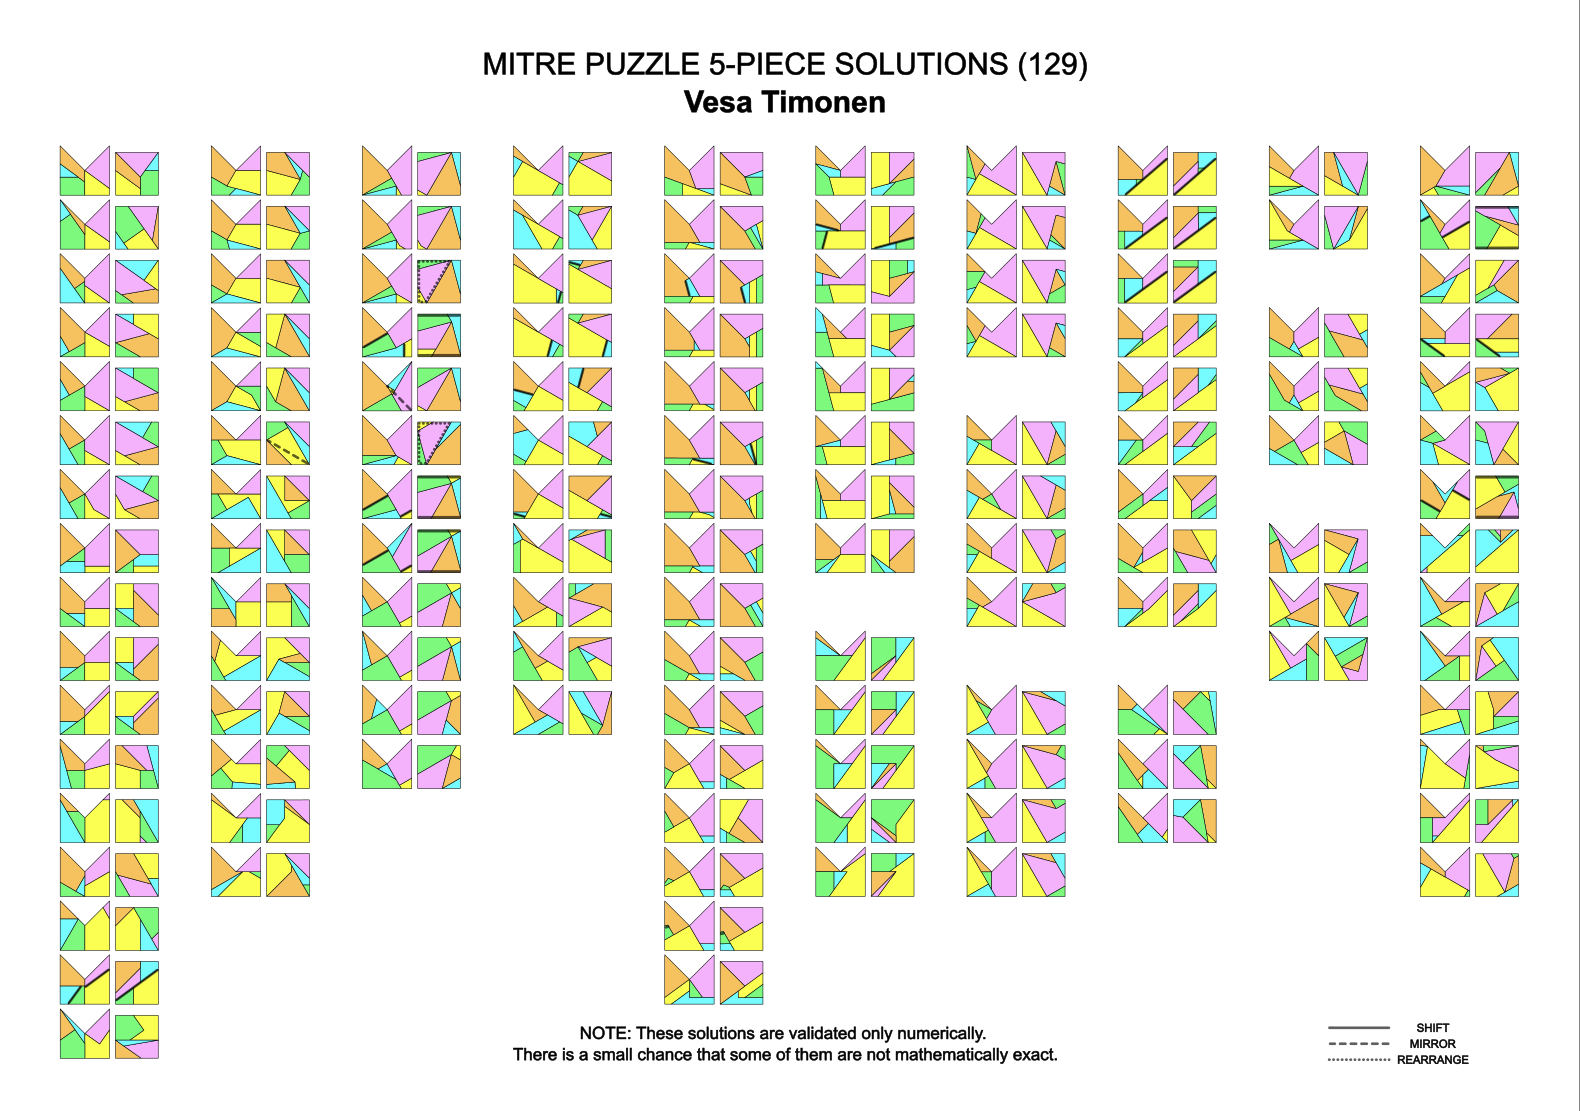
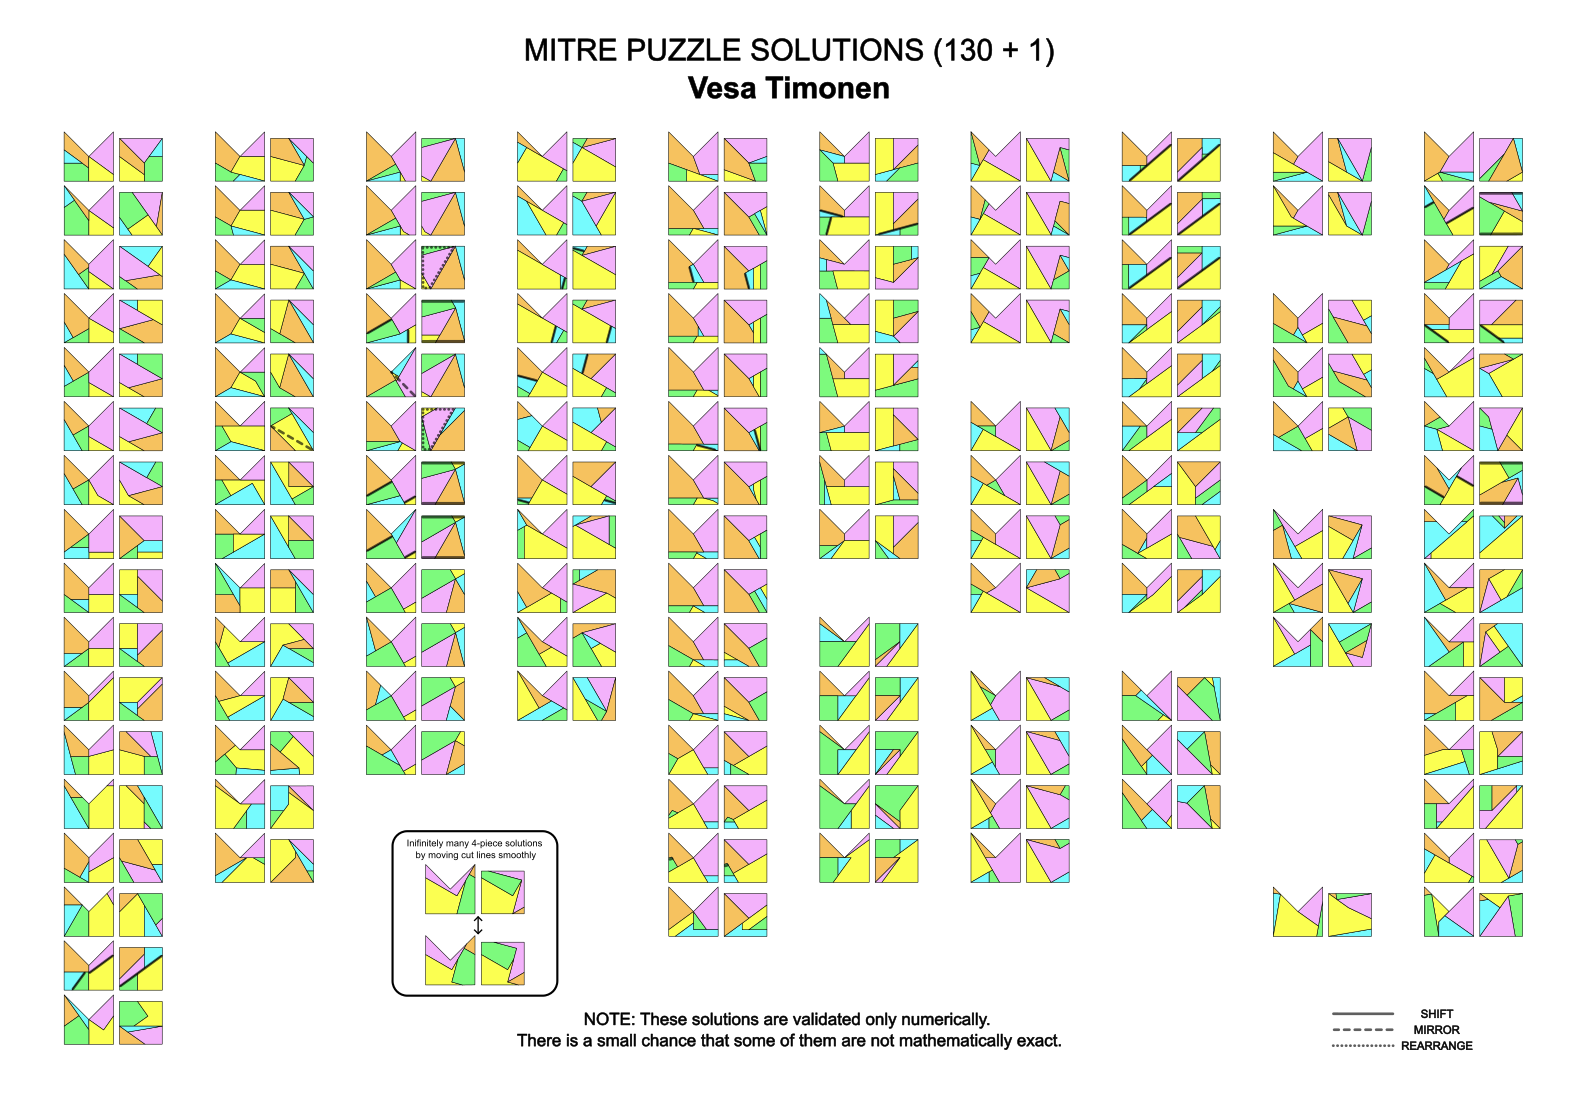
Update solutions

diff --git a/index.html b/index.html
@@ -81,7 +81,7 @@
             Since Dudeney's revelation, several individuals have found new 5-piece solutions.
             <a href="https://mp.weixin.qq.com/s/Kb_oBJUdloy09loHT3cdqQ"> [Wei] </a><br><br>
 
-            The software was developed to find more, and the findings are listed in the image below. In fact, there are infinitely many 5-piece solutions to the mitre puzzle, as cutting lines in some solutions can be smoothly shifted to generate numerous new dissections.<br><br>
+            The software was developed to find more, and the findings are listed in the image below. In fact, there are infinitely many 4-piece and 5-piece solutions to the mitre puzzle, as cutting lines in some solutions can be smoothly shifted to generate numerous new dissections.<br><br>
 
             At present, the software cannot handle curved lines. Incorporating curved lines could potentially lead to new 5-piece (or even 4-piece) solutions. Another interesting area of exploration is using fractal cutting lines.<br><br>
 
